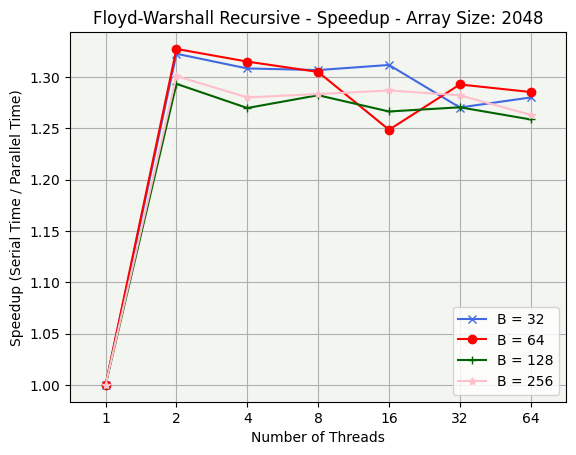
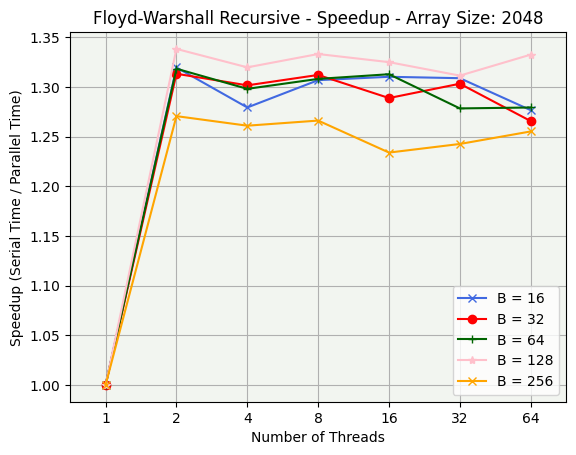
Fixed tiled, updated tiled optimal, and updated plots and metrics

diff --git a/1st_exec/src/Floyd_Warshall/fw_tiled_opt.c b/1st_exec/src/Floyd_Warshall/fw_tiled_opt.c
@@ -44,50 +44,43 @@ int main(int argc, char **argv)
 
        #pragma omp parallel
        {
-         FW(A,k,k,k,B);        // CR tile
-        //  for(_k=k; _k<k+B; _k++)
-        //   #pragma omp for private(j) nowait
-        //     for(i=k; i<k+B; i++)
-        //        for(j=k; j<k+B; j++)
-        //           A[i][j]=min(A[i][j], A[i][_k]+A[_k][j]);
-        // #pragma omp barrier
+          FW(A,k,k,k,B);        // CR tile
 
-         #pragma omp for nowait schedule(dynamic)
-           for(i=0; i<k; i+=B)   // N tiles
+          #pragma omp for nowait schedule(dynamic)
+            for(i=0; i<k; i+=B)   // N tiles
               FW(A,k,i,k,B);
 
-        #pragma omp for private(j) nowait schedule(dynamic)
-         for(i=0; i<k; i+=B)   // NW tiles
-            for(j=0; j<k; j+=B)
-               FW(A,k,i,j,B);
+          #pragma omp for nowait schedule(dynamic)
+            for(j=0; j<k; j+=B)   // W tiles
+              FW(A,k,k,j,B);
 
-        #pragma omp for private(j) nowait schedule(dynamic)
-         for(i=0; i<k; i+=B)   // NE tiles
-            for(j=k+B; j<N; j+=B)
-               FW(A,k,i,j,B);
-
-        #pragma omp for nowait schedule(dynamic)
-         for(j=0; j<k; j+=B)   // W tiles
-            FW(A,k,k,j,B);
-
-            #pragma omp for nowait schedule(dynamic)
-          for(j=k+B; j<N; j+=B) // E tiles
-             FW(A,k,k,j,B);
-
-
-         #pragma omp for nowait schedule(dynamic)
-           for(i=k+B; i<N; i+=B) // S tiles
-              FW(A,k,i,k,B);
-
-          #pragma omp for private(j) nowait schedule(dynamic)
-           for(i=k+B; i<N; i+=B) // SW tiles
+          #pragma omp for private(j) nowait collapse(2) schedule(dynamic)
+            for(i=0; i<k; i+=B)   // NW tiles
               for(j=0; j<k; j+=B)
-                 FW(A,k,i,j,B);
+                FW(A,k,i,j,B);
 
-          #pragma omp for private(j) nowait schedule(dynamic)
-           for(i=k+B; i<N; i+=B) // SE tiles
+          #pragma omp for nowait schedule(dynamic)
+            for(j=k+B; j<N; j+=B) // E tiles
+              FW(A,k,k,j,B);
+
+          #pragma omp for private(j) nowait collapse(2) schedule(dynamic)
+            for(i=0; i<k; i+=B)   // NE tiles
               for(j=k+B; j<N; j+=B)
-                 FW(A,k,i,j,B);
+                FW(A,k,i,j,B);
+
+          #pragma omp for nowait schedule(dynamic)
+            for(i=k+B; i<N; i+=B) // S tiles
+              FW(A,k,i,k,B);
+
+          #pragma omp for private(j) nowait collapse(2) schedule(dynamic)
+            for(i=k+B; i<N; i+=B) // SW tiles
+              for(j=0; j<k; j+=B)
+                FW(A,k,i,j,B);
+
+          #pragma omp for private(j) nowait collapse(2) schedule(dynamic)
+            for(i=k+B; i<N; i+=B) // SE tiles
+              for(j=k+B; j<N; j+=B)
+                FW(A,k,i,j,B);
        }
 
      }

diff --git a/1st_exec/src/Floyd_Warshall/plot_metrics.py b/1st_exec/src/Floyd_Warshall/plot_metrics.py
@@ -14,8 +14,8 @@ if len(sys.argv) < 2:
 outDir = sys.argv[1]
 threads_confs = [1, 2, 4, 8, 16, 32, 64]
 array_sizes = [1024, 2048, 4096]
-block_size = [32, 64, 128, 256]
-implementations = {"fw": "", "fw_sr": "Recursive", "fw_tiled": "Tiled"}
+block_size = [16, 32, 64, 128, 256]
+implementations = {"fw": "", "fw_sr": "Recursive", "fw_tiled": "Tiled", "fw_tiled_opt": "Tiled Optimal"}
 name = implementations[outDir.split("/")[1]]
 
 times = {}
@@ -53,7 +53,7 @@ for arr_size, b_size in times.items():
 
 
 markers = ['x', 'o', '+', '*']
-colors = ["royalblue", "red", "darkgreen", "pink"]
+colors = ["royalblue", "red", "darkgreen", "pink", "orange"]
 
 ## PLOT TIMES
 x_Axis = np.array(threads_confs)

diff --git a/1st_exec/src/Floyd_Warshall/fw_tiled.c b/1st_exec/src/Floyd_Warshall/fw_tiled.c
@@ -62,6 +62,7 @@ int main(int argc, char **argv)
               #pragma omp task firstprivate(j)
               FW(A,k,k,j,B);
 
+          #pragma omp taskwait
 
            for(i=0; i<k; i+=B)   // NW tiles
               for(j=0; j<k; j+=B)
